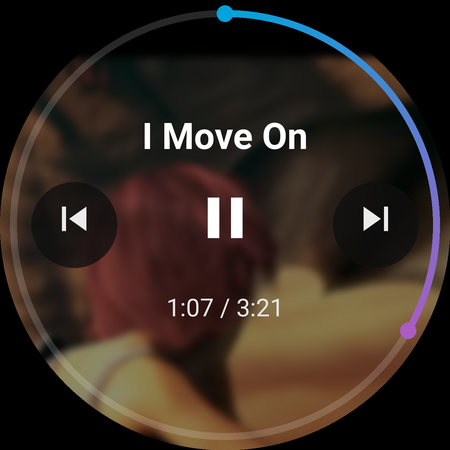
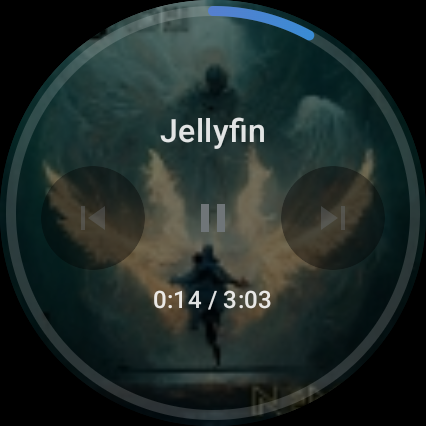
Real device screenshots for the listing + password fallback on Quick Connect
Replace the mocked listing screenshots with real captures from a watch
connected to the public Jellyfin demo server, and update the store
descriptions' media attribution accordingly.

On servers with Quick Connect enabled the login flow offered no manual
alternative; a new chip under the code falls through to the
username/password flow (all five locales). Documented the demo-server
login path for testers and the Play review answer sheet.

Claude-Session: https://claude.ai/code/session_01Hs1hgth26A5a42ufTEM5qs

diff --git a/app/src/main/kotlin/one/srz/jellywear/presentation/login/LoginScreen.kt b/app/src/main/kotlin/one/srz/jellywear/presentation/login/LoginScreen.kt
@@ -30,6 +30,7 @@ import androidx.wear.compose.foundation.rotary.RotaryScrollableDefaults
 import androidx.wear.compose.material.Chip
 import androidx.wear.compose.material.ChipDefaults
 import androidx.wear.compose.material.CircularProgressIndicator
+import androidx.wear.compose.material.CompactChip
 import androidx.wear.compose.material.ListHeader
 import androidx.wear.compose.material.MaterialTheme
 import androidx.wear.compose.material.Text
@@ -265,6 +266,16 @@ fun LoginScreen(
                     textAlign = TextAlign.Center,
                     style = MaterialTheme.typography.caption2,
                     modifier = Modifier.padding(top = 8.dp),
+                )
+                // Escape hatch for servers where confirming the code from
+                // another device is impractical (e.g. the public demo
+                // server): fall through to the username/password flow.
+                // Changing the step cancels the polling LaunchedEffect.
+                CompactChip(
+                    label = { Text(text = stringResource(R.string.login_quick_connect_fallback)) },
+                    onClick = { step = LoginStep.USERNAME },
+                    colors = ChipDefaults.secondaryChipColors(),
+                    modifier = Modifier.padding(top = 10.dp),
                 )
             }
             LoginStep.ERROR -> {

diff --git a/docs/play-console-answers.md b/docs/play-console-answers.md
@@ -122,11 +122,14 @@ Review-Team hinterlegen.
 
 **Option B — öffentlicher Jellyfin-Demo-Server (nur Notlösung):**
 `https://demo.jellyfin.org/stable` mit Benutzer `demo` und **leerem Passwort**
-funktioniert grundsätzlich als Jellyfin-Instanz. Für das Play-Review aber
+funktioniert als Jellyfin-Instanz (mit der App verifiziert; der Pfad
+`/stable` muss mit in die Server-URL). Da der Demo-Server Quick Connect
+anbietet, zeigt die App zuerst den Quick-Connect-Code — über den Button
+„Stattdessen mit Passwort anmelden" geht es zum normalen Login
+(`demo`, Passwort leer lassen). Für das Play-Review trotzdem
 **nicht empfohlen**: Der Server gehört dem Jellyfin-Projekt (Drittanbieter,
-keine Verfügbarkeits-Garantie), es gab wiederholt Berichte über nicht
-funktionierende Demo-Logins/Ausfälle, und ein leeres Passwort passt evtl.
-nicht durch den Login-Flow der App. Wenn überhaupt, dann nur zusätzlich als
+keine Verfügbarkeits-Garantie), und es gab wiederholt Berichte über
+Demo-Ausfälle. Wenn überhaupt, dann nur zusätzlich als
 Fallback in den Instructions nennen — die Hauptzugangsdaten sollten auf einen
 selbst kontrollierten Server zeigen.
 

diff --git a/docs/testers-checklist.md b/docs/testers-checklist.md
@@ -59,7 +59,9 @@ erlaubt).
 > To publish on Google Play, new personal developer accounts need a closed
 > test with at least 12 testers opted in for 14 days — so I'm looking for a
 > few people with a Wear OS 3+ watch and their own Jellyfin server who'd like
-> to try it and share feedback.
+> to try it and share feedback. No server? The public demo works too: use
+> `demo.jellyfin.org/stable` as the server URL, tap "Sign in with password
+> instead", user `demo`, leave the password empty.
 >
 > How to join: send me your Google account email / join the Google Group
 > [LINK], then install via the opt-in link [LINK]. Staying opted in for the
